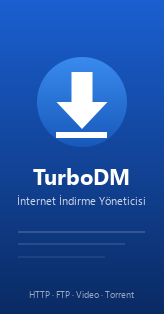
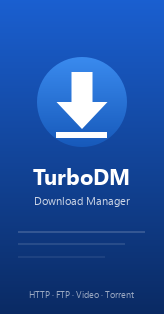
TurboDM 1.7.7: kurulum yan görseli seçilen dilde

Changed region(s): [[0.0915, 0.6019, 0.8841, 0.6592]]

diff --git a/installer/make_icon.py b/installer/make_icon.py
@@ -4,6 +4,7 @@ import struct
 import sys
 
 os.environ.setdefault("QT_QPA_PLATFORM", "offscreen")
+os.environ.setdefault("QT_QPA_FONTDIR", os.path.join(os.environ.get("WINDIR", r"C:\Windows"), "Fonts"))
 from PySide6.QtCore import QBuffer, QByteArray, QIODevice, Qt  # noqa: E402
 from PySide6.QtGui import (QColor, QFont, QGuiApplication, QImage, QLinearGradient, QPainter,  # noqa: E402
                            QPainterPath, QPen, QRadialGradient)
@@ -71,7 +72,15 @@ def wizard_background(scale):
     return img
 
 
-def wizard_side(scale):
+# Kurulum sihirbazı yan görselindeki alt başlık, kurulumda seçilen dile göre (TurboDM.iss → LoadSideImage)
+SIDE_SUBTITLE = {
+    "en": "Download Manager", "tr": "İnternet İndirme Yöneticisi", "de": "Download-Manager",
+    "fr": "Gestionnaire de téléchargement", "es": "Gestor de descargas", "ar": "مدير التنزيل",
+    "it": "Gestore di download",
+}
+
+
+def wizard_side(scale, lang="en"):
     """Karşılama ve bitiş sayfalarındaki sol panel."""
     w, h = int(164 * scale), int(314 * scale)
     img = QImage(w, h, QImage.Format_ARGB32)
@@ -99,7 +108,7 @@ def wizard_side(scale):
     f.setBold(False)
     p.setFont(f)
     p.setPen(QColor(255, 255, 255, 200))
-    p.drawText(0, int(190 * scale), w, int(20 * scale), Qt.AlignCenter, "İnternet İndirme Yöneticisi")
+    p.drawText(0, int(190 * scale), w, int(20 * scale), Qt.AlignCenter, SIDE_SUBTITLE[lang])
     f.setPixelSize(int(9 * scale))
     p.setFont(f)
     p.setPen(QColor(255, 255, 255, 150))
@@ -137,7 +146,10 @@ if __name__ == "__main__":
     # Kurulum sihirbazı görselleri: %100, %150, %200 ölçek (Inno en uygununu seçer)
     for scale, tag in ((1.0, "100"), (1.5, "150"), (2.0, "200")):
         wizard_background(scale).save(os.path.join(out, f"wizard_bg_{tag}.png"))
-        wizard_side(scale).save(os.path.join(out, f"wizard_side_{tag}.png"))
+        wizard_side(scale).save(os.path.join(out, f"wizard_side_{tag}.png"))  # varsayılan: İngilizce
+        os.makedirs(os.path.join(out, "wizard"), exist_ok=True)
+        for lang in SIDE_SUBTITLE:  # her kurulum dili için ayrı yan görsel
+            wizard_side(scale, lang).save(os.path.join(out, "wizard", f"side_{lang}_{tag}.png"))
         render(int(58 * scale)).save(os.path.join(out, f"wizard_small_{tag}.png"))
     # Tarayıcı eklentisinin simgeleri (araç çubuğu, eklentiler sayfası, mağaza)
     ext = os.path.join(os.path.dirname(os.path.abspath(__file__)), "..", "browser_extension", "icons")

diff --git a/turbodm/appinfo.py b/turbodm/appinfo.py
@@ -3,7 +3,7 @@ import os
 import sys
 
 APP_NAME = "TurboDM"
-VERSION = "1.7.6"   # build.ps1 kurulum dosyasının sürümünü buradan alır
+VERSION = "1.7.7"   # build.ps1 kurulum dosyasının sürümünü buradan alır
 
 # Güncellemelerin yayımlandığı GitHub deposu ("kullanıcı/depo"). Boşsa "Güncellemeleri denetle"
 # sunucunun ayarlanmadığını söyler. Program şu adresi okur:

diff --git a/SURUM_NOTLARI.md b/SURUM_NOTLARI.md
@@ -7,6 +7,9 @@ Kurulu TurboDM'i güncellemek için: *Yardım → Güncellemeleri denetle*. · [
 <!-- Geliştirici notu: her yeni sürümde en üste "## x.y.z" bölümü eklenir (İngilizcesi RELEASE_NOTES.md'ye). "Güncellemeleri denetle"
      penceresinde o sürümün bölümü gösterilir (build.ps1 otomatik olarak latest.json'a koyar). -->
 
+## 1.7.7
+• Kurulum sihirbazının yan görselindeki yazı, kurulumda seçilen dilde görünür
+
 ## 1.7.6
 • Düzeltme: TurboDM.exe'nin dosya özelliklerinde (Ayrıntılar) sürüm artık doğru görünür (hep 1.0.0.0 yazıyordu)
 • Kurulum sihirbazının yan görselindeki özellik satırı güncellendi
